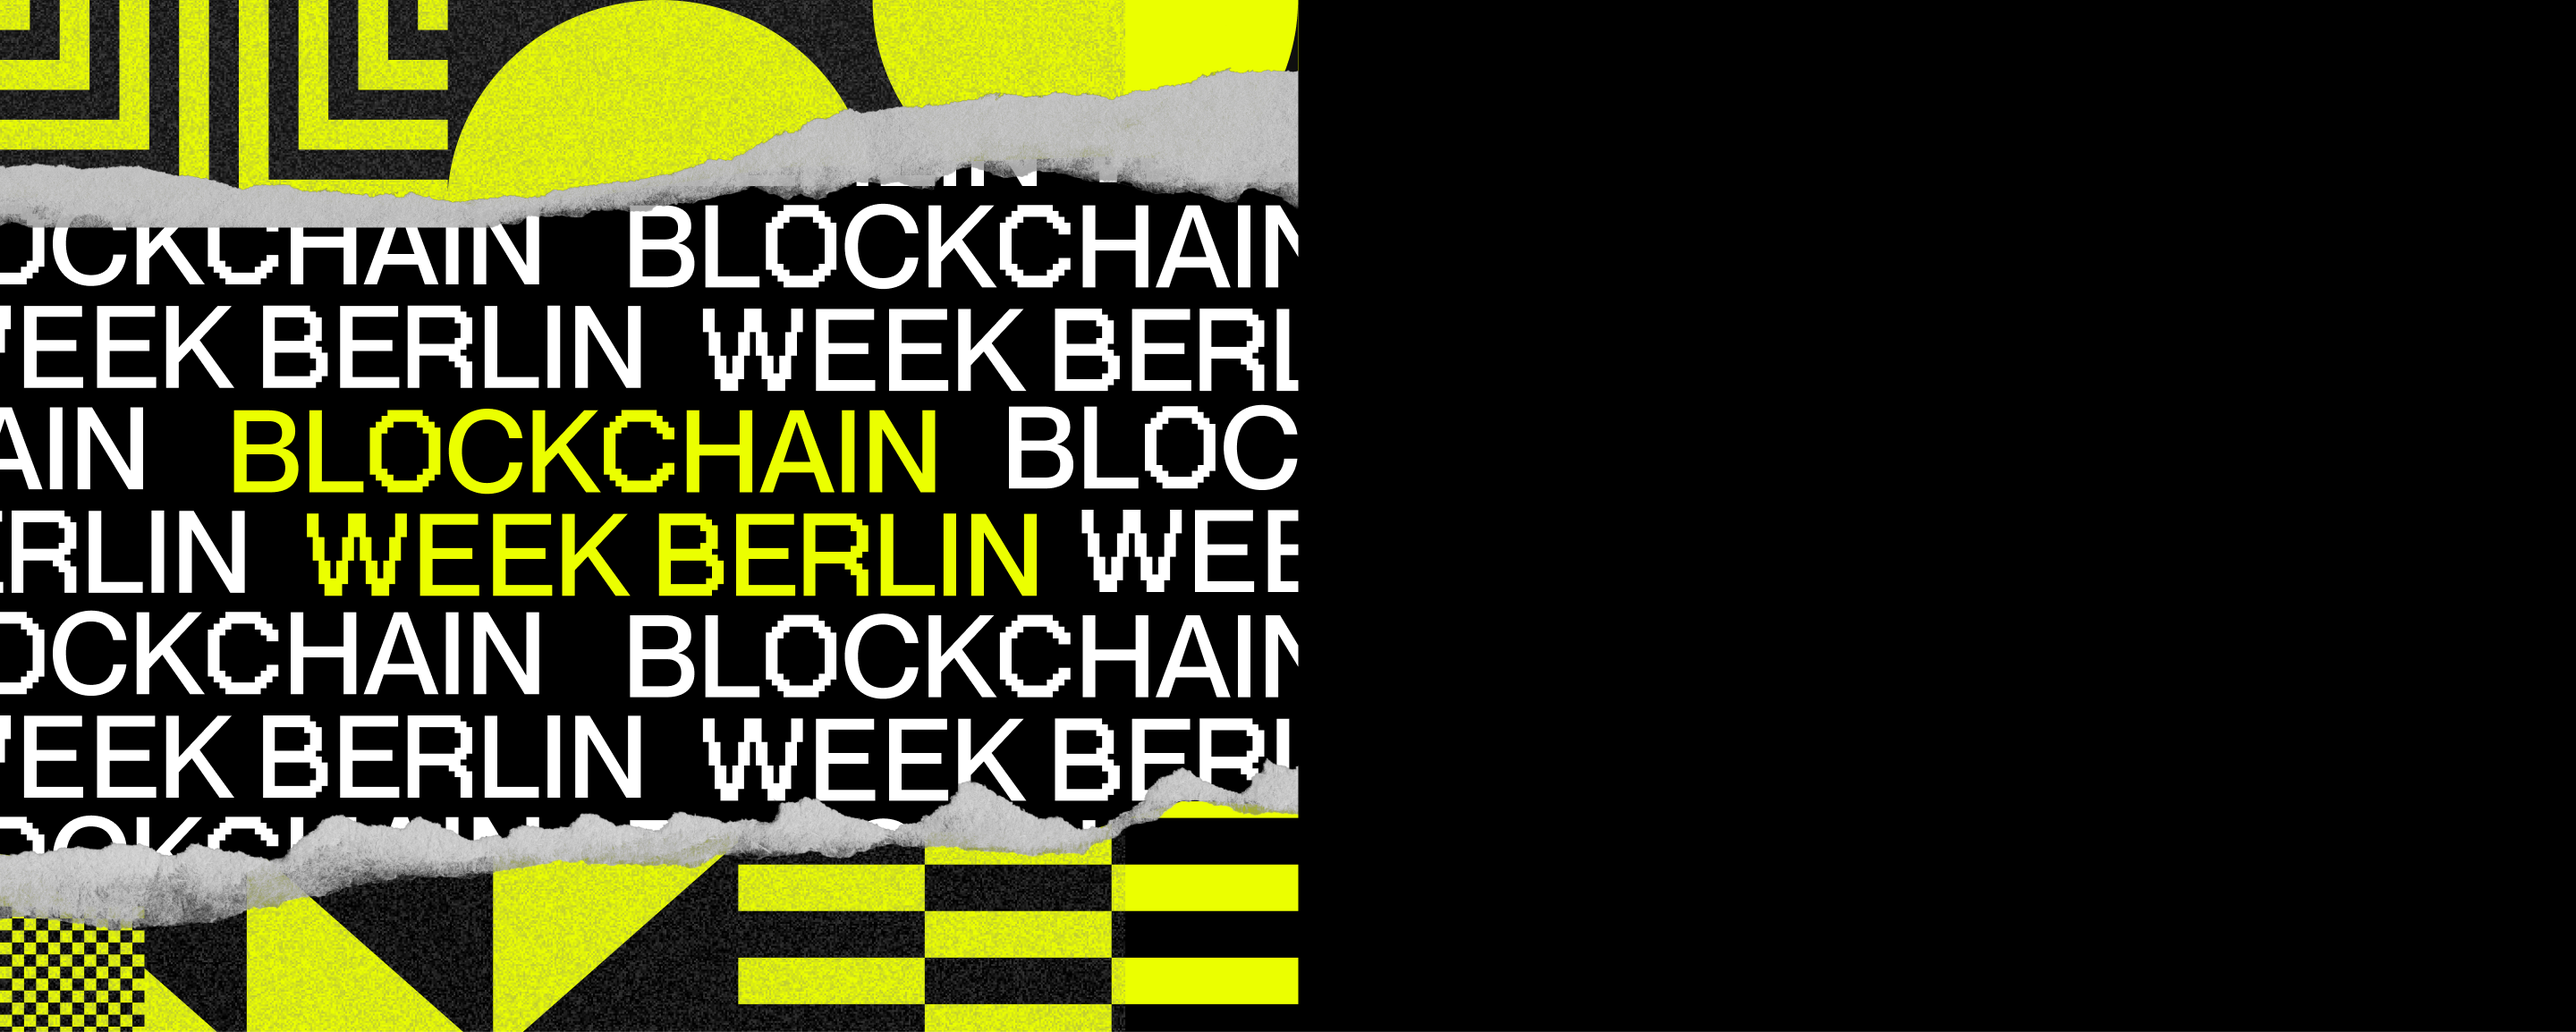
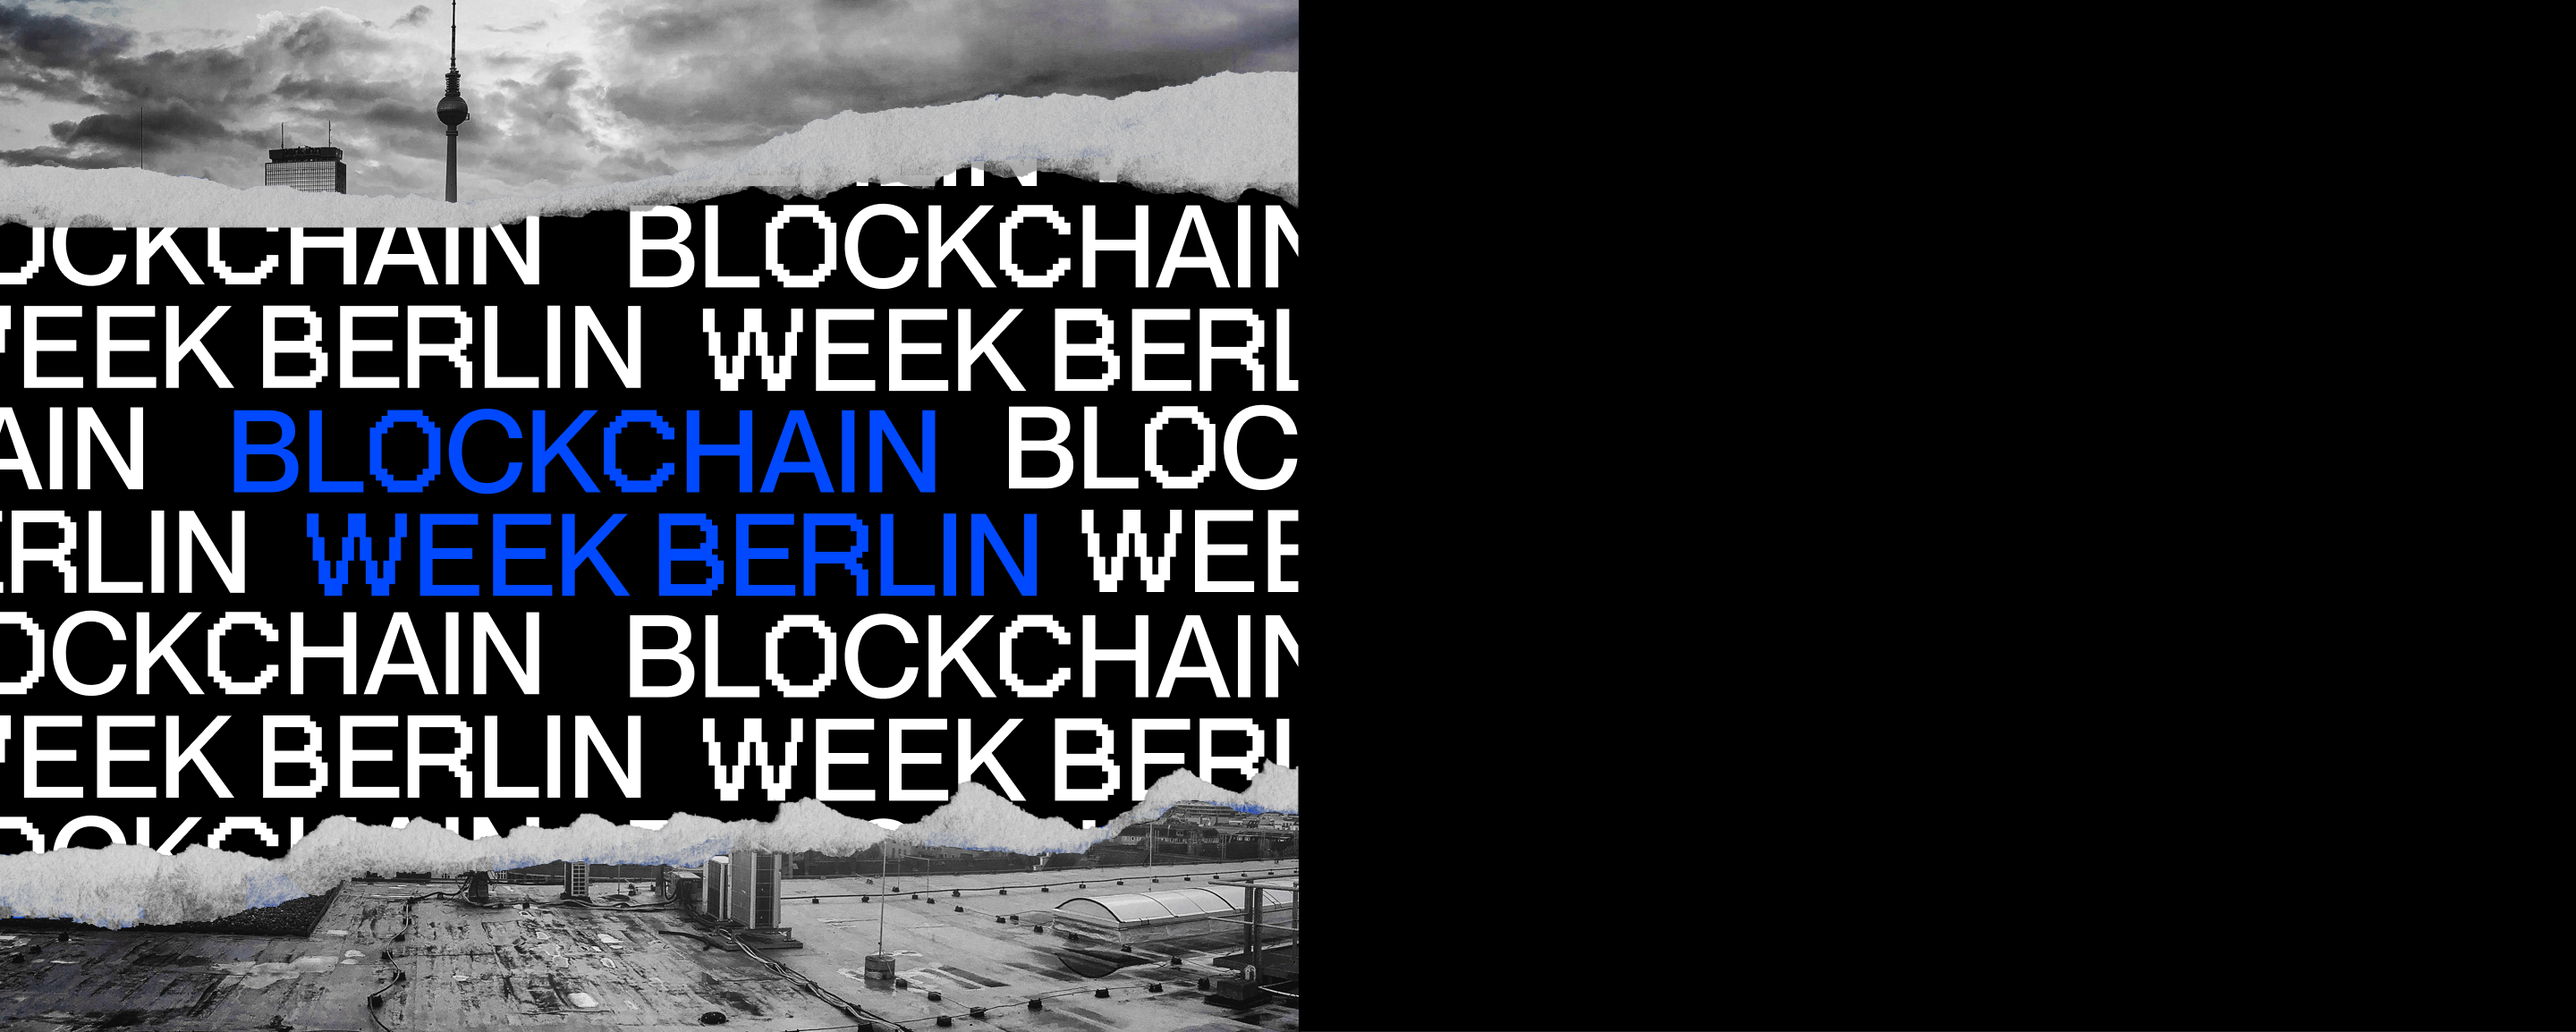
update brand

Changed region(s): [[0.0, 0.7799, 0.5312, 1.0], [0.0, 0.0, 0.5312, 0.2184], [0.0938, 0.3744, 0.4062, 0.5927]]

diff --git a/assets/styles/colors.scss b/assets/styles/colors.scss
@@ -7,5 +7,5 @@ $red: #D94D49;
 $grey: #C9C9C8;
 $dark-grey: #404040;
 $grey2: #F6F6F6;
-$yellow: #EBFF00;
+$yellow: #5672ff;
 $overlay: rgba(0, 0, 0, 0.5);
